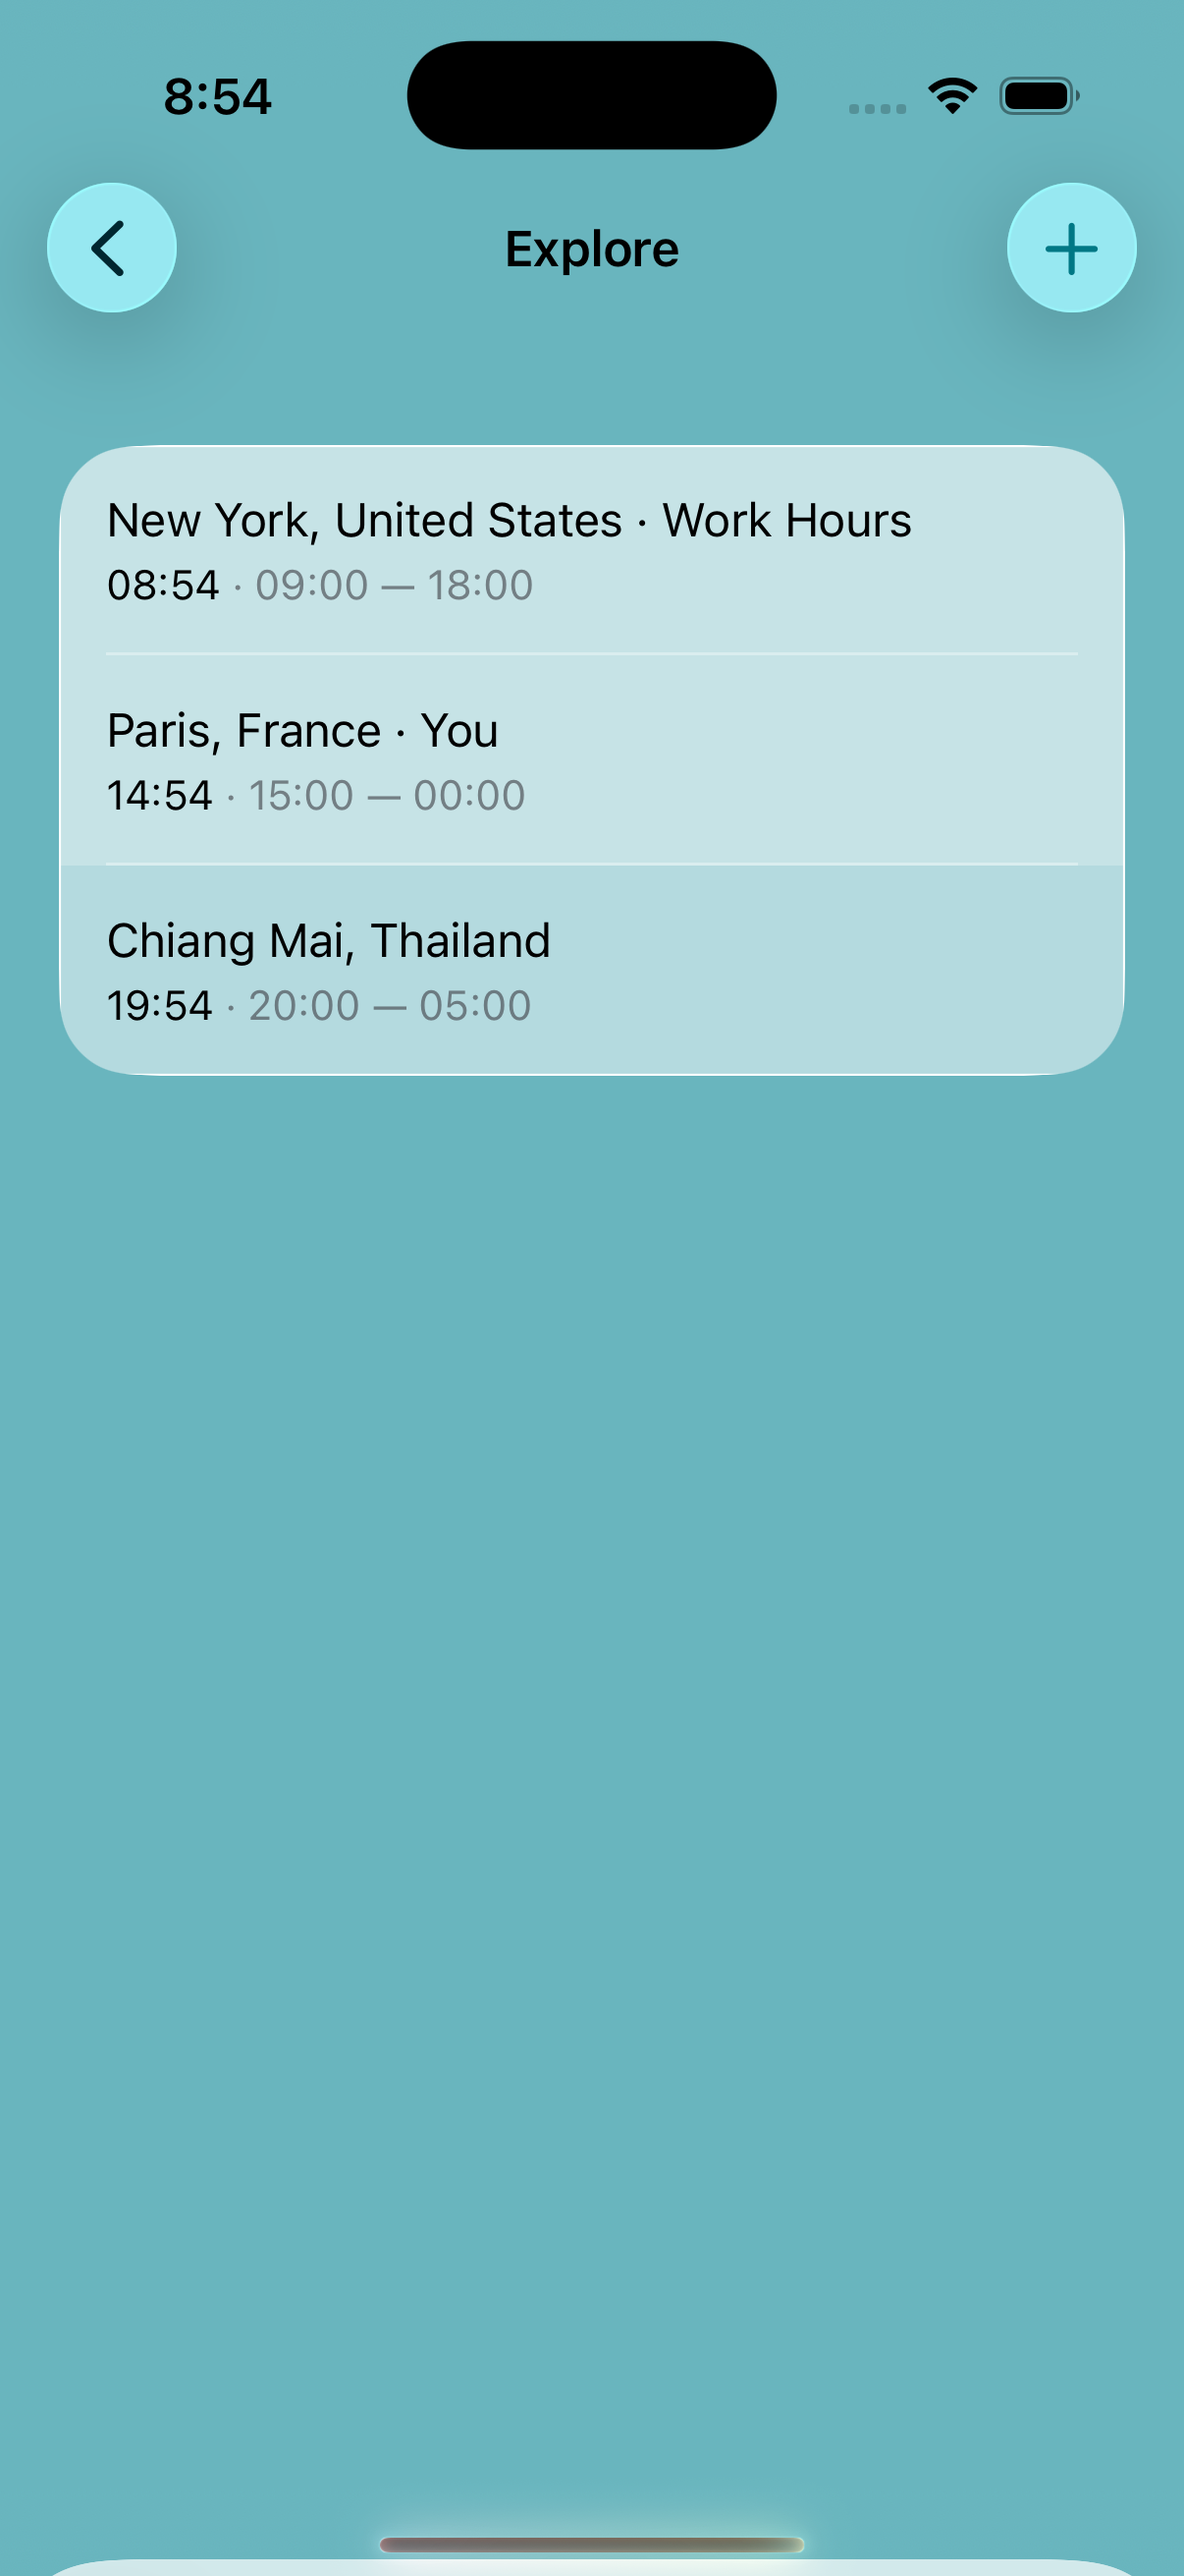
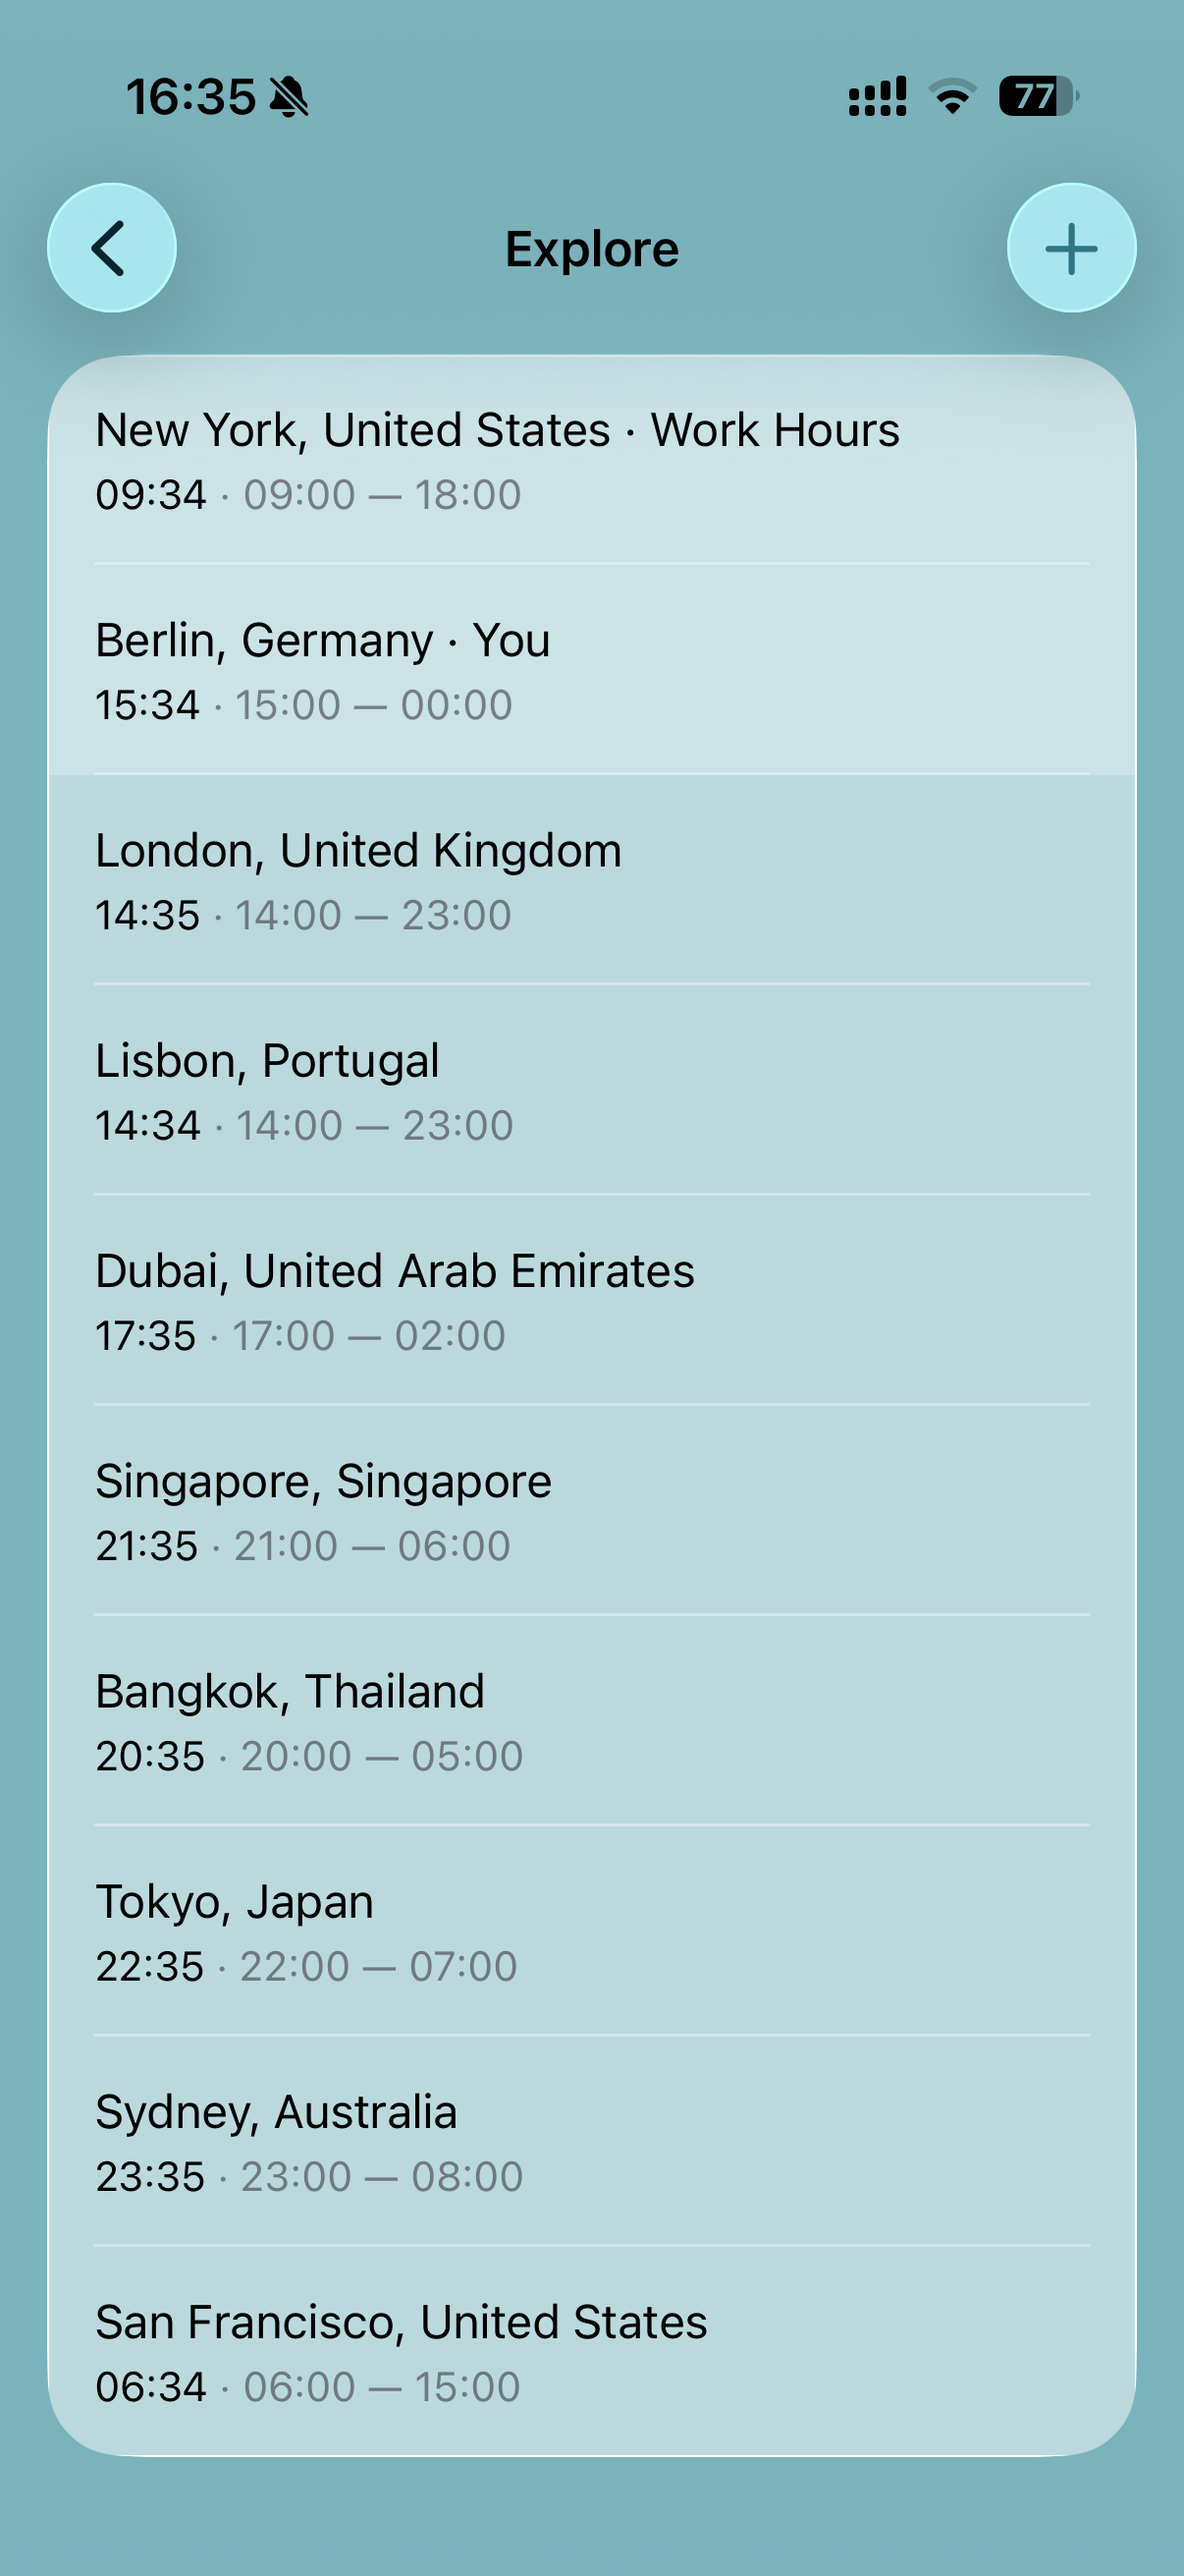
Update screens

diff --git a/src/routes/index.tsx b/src/routes/index.tsx
@@ -157,7 +157,7 @@ function Index() {
       <section className="hero" id="top">
         <div className="sun-disc" aria-hidden="true" />
         <div className="hero-copy" data-reveal>
-          <p className="time-label">Paris · 14:51 <span>New York · 08:51</span></p>
+          <p className="time-label">Berlin · 14:51 <span>New York · 08:51</span></p>
           <h1>Is now a<br />good time?</h1>
           <p className="hero-answer">WhenItsTime helps you find out.</p>
           <p className="hero-detail">See local time, working hours, and the best moments to connect — wherever you are.</p>
@@ -167,7 +167,7 @@ function Index() {
           </div>
         </div>
         <div className="hero-phone phone-wrap" data-reveal>
-          <img src={overlapScreen} alt="WhenItsTime showing the overlap between Paris and New York" />
+          <img src={overlapScreen} alt="WhenItsTime showing the overlap between Berlin and New York" />
         </div>
         <a className="scroll-cue" href="#pro" aria-label="Continue to price"><ArrowDown size={18} /></a>
       </section>
@@ -178,8 +178,8 @@ function Index() {
           <h2>Your afternoon might be their evening.</h2>
           <p>Time zones tell you what time it is.<br />WhenItsTime helps you understand what that means.</p>
         </div>
-        <div className="time-orbits" data-reveal aria-label="Paris at 3:20 PM and Tokyo at 11:20 PM">
-          <div className="orbit orbit-day"><span className="orbit-kicker">Paris</span><strong>15:20</strong><small>afternoon</small></div>
+        <div className="time-orbits" data-reveal aria-label="Berlin at 3:20 PM and Tokyo at 11:20 PM">
+          <div className="orbit orbit-day"><span className="orbit-kicker">Berlin</span><strong>15:20</strong><small>afternoon</small></div>
           <div className="orbit-line"><span>+8 hours</span></div>
           <div className="orbit orbit-night"><span className="orbit-kicker">Tokyo</span><strong>23:20</strong><small>night</small></div>
         </div>
@@ -199,24 +199,24 @@ function Index() {
 
       <section className="feature feature-explore">
         <div className="phone-stage explore-stage" data-reveal>
-          <div className="phone-wrap"><img loading="lazy" src={exploreScreen} alt="Explore view with New York, Paris, and Chiang Mai" /></div>
+          <div className="phone-wrap"><img loading="lazy" src={workingHoursScreen} alt="Working hours settings" /></div>
         </div>
         <div className="section-copy" data-reveal>
-          <p className="eyebrow">Follow the day</p>
-          <h2>See how their<br />day is going.</h2>
-          <p>Keep the places that matter to you in view and see their local time and working hours at a glance.</p>
+          <p className="eyebrow">When they’re available</p>
+          <h2>Know when they’re<br />actually available.</h2>
+          <p>Set working hours for each location and instantly see whether now is a good time — or when the next good window begins.</p>
         </div>
       </section>
 
       <section className="feature feature-hours">
         <div className="afternoon-sun" aria-hidden="true" />
         <div className="section-copy" data-reveal>
-          <p className="eyebrow">When they’re available</p>
-          <h2>Know when they’re<br />actually available.</h2>
-          <p>Set working hours for each location and instantly see whether now is a good time — or when the next good window begins.</p>
+          <p className="eyebrow">Keep your world in view</p>
+          <h2>See local time and <br />working hours at a glance.</h2>
+          <p>Keep the places that matter to you close and see where they are in their day.</p>
         </div>
         <div className="phone-stage hours-stage" data-reveal>
-          <div className="phone-wrap"><img loading="lazy" src={workingHoursScreen} alt="Working hours settings in WhenItsTime" /></div>
+          <div className="phone-wrap"><img loading="lazy" src={exploreScreen} alt="Explore view" /></div>
         </div>
       </section>
 
